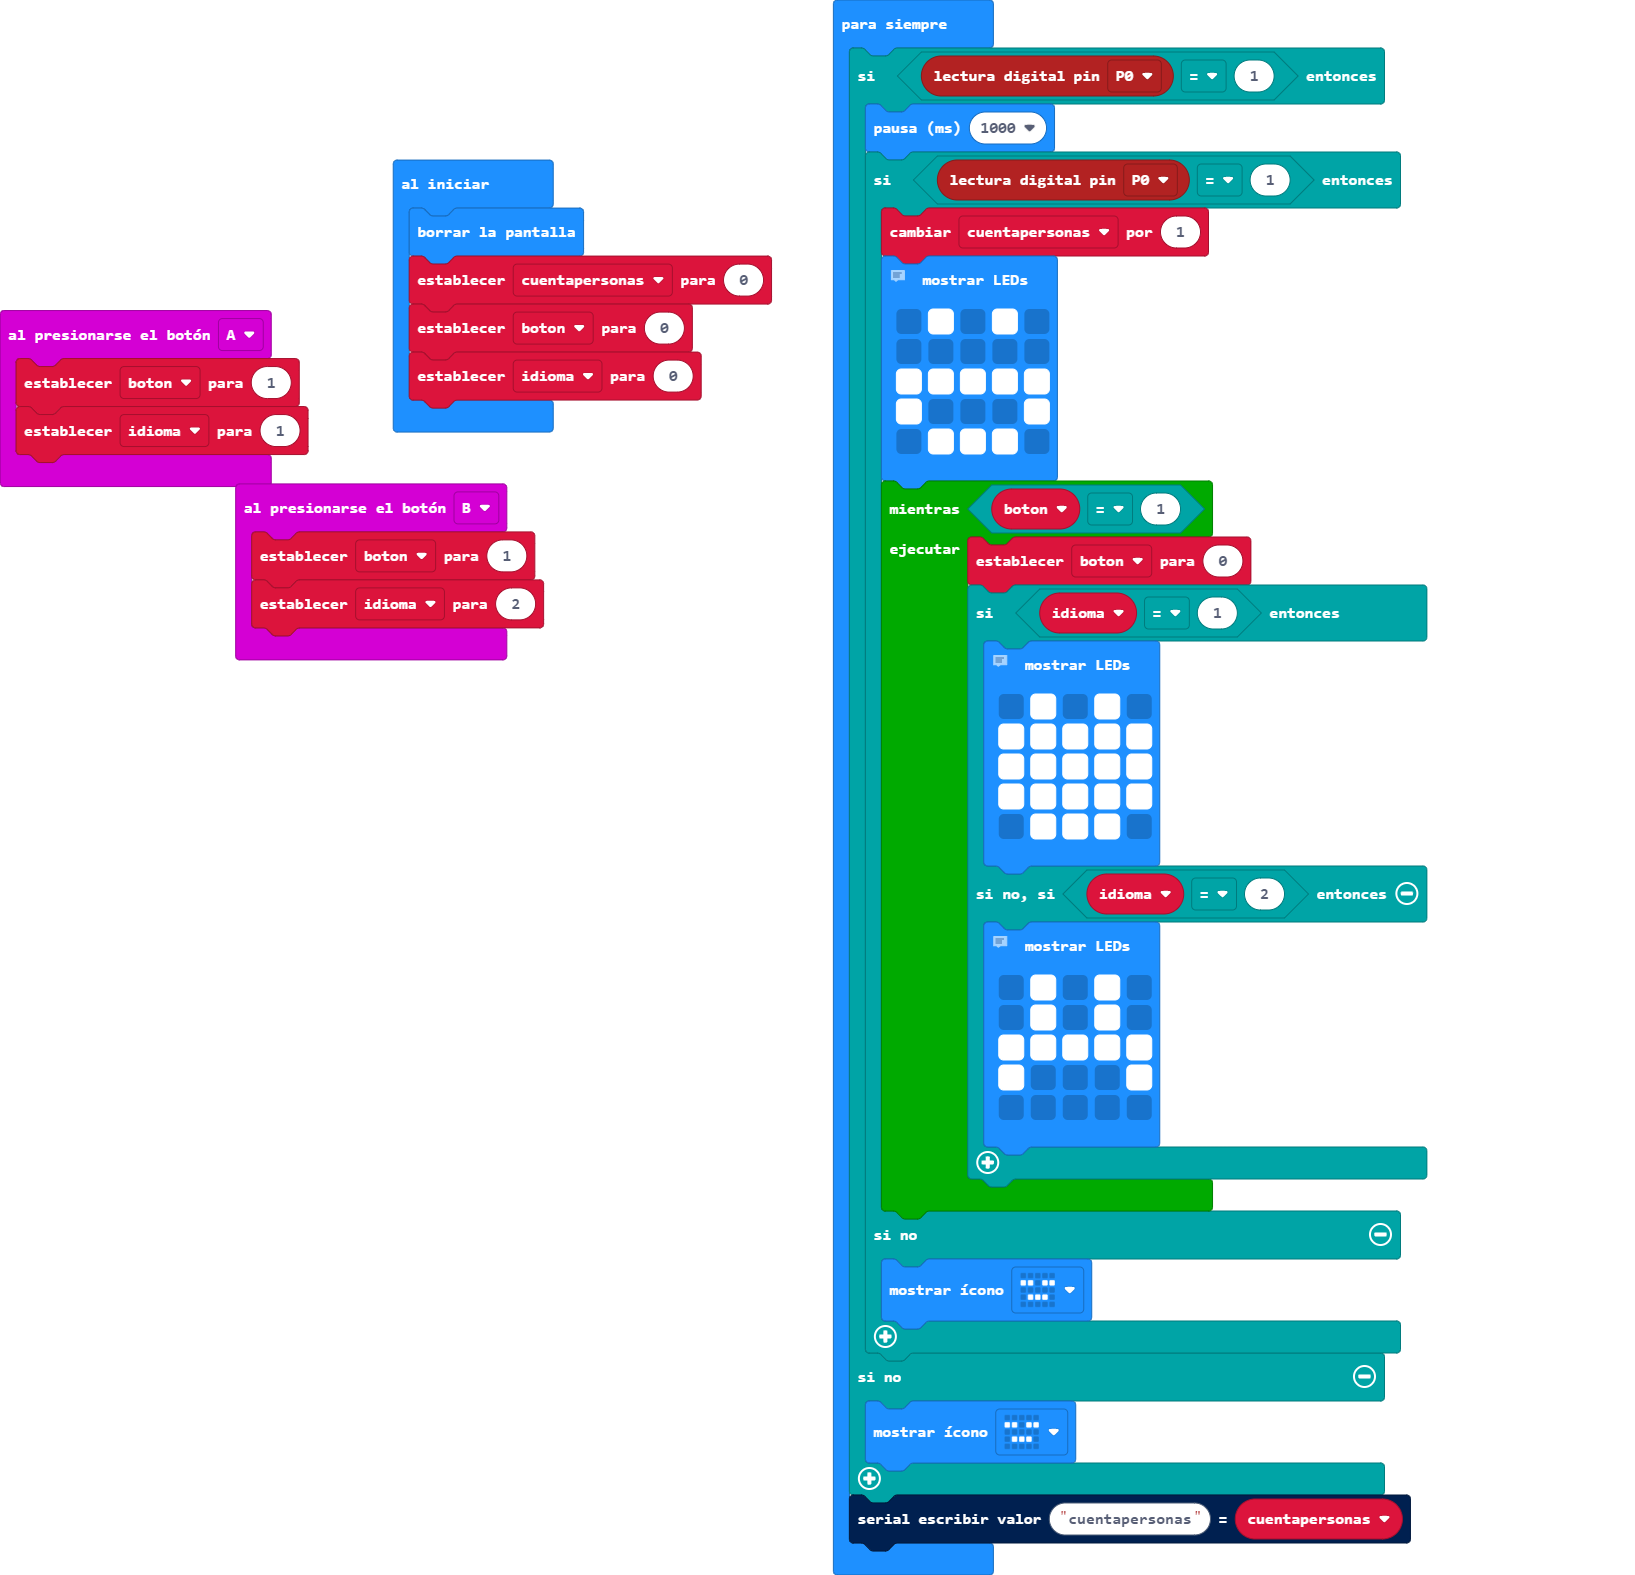
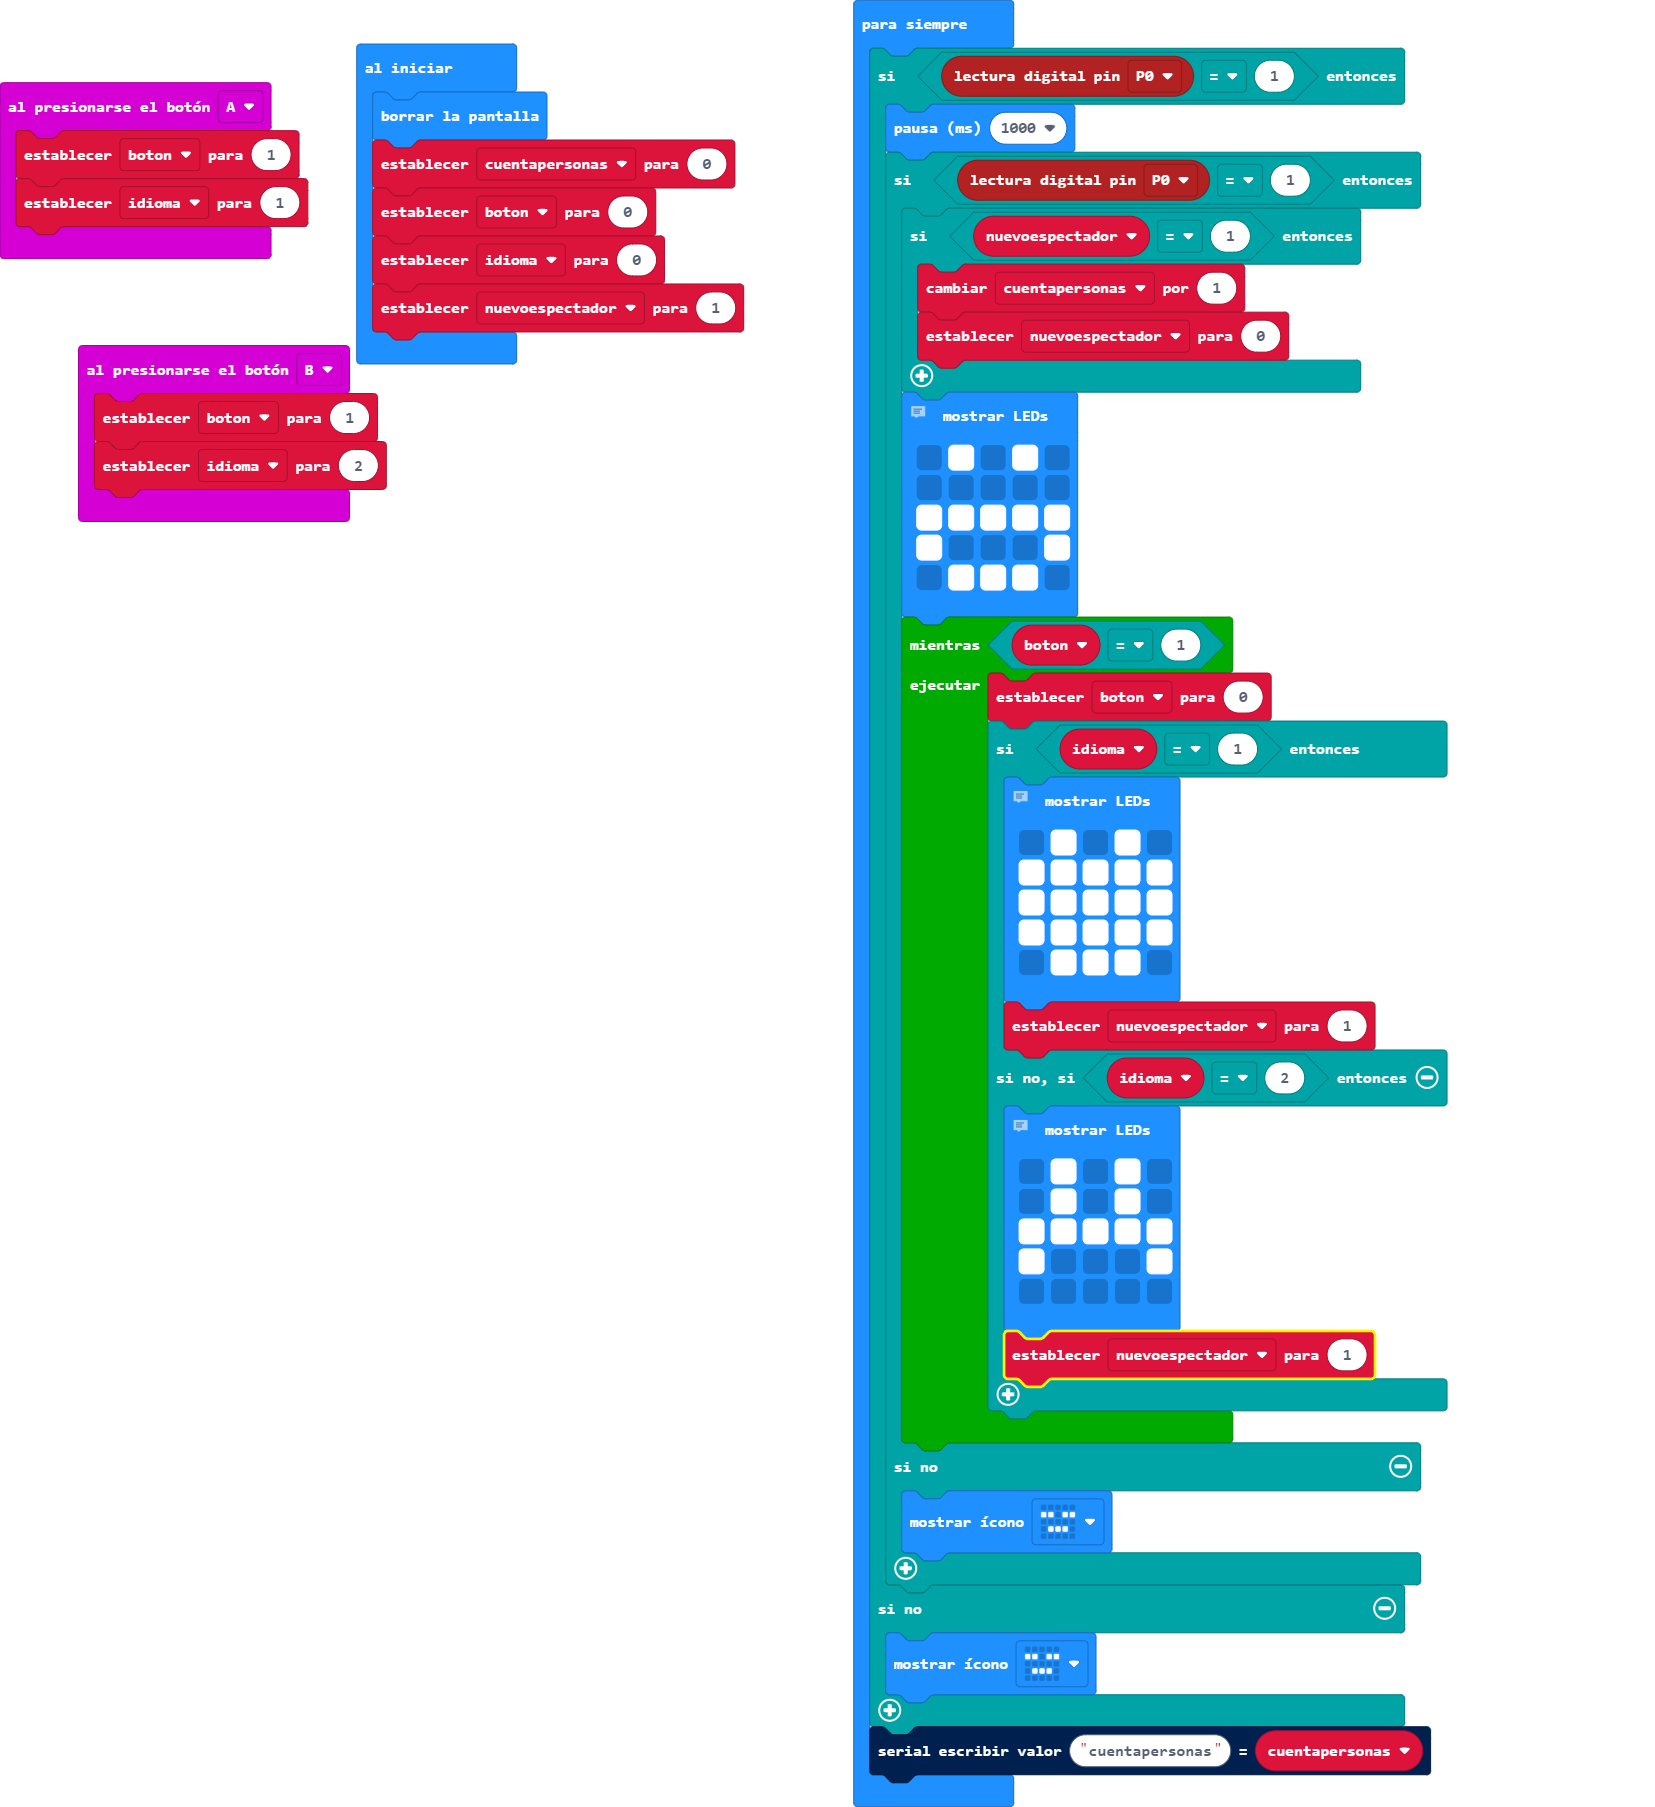
Actualizar main.blocks, main.ts

Changed region(s): [[0.0, 0.0, 0.8734, 1.0]]

diff --git a/main.ts b/main.ts
@@ -12,11 +12,15 @@ basic.clearScreen()
 let cuentapersonas = 0
 boton = 0
 idioma = 0
+let nuevoespectador = 1
 basic.forever(function () {
     if (pins.digitalReadPin(DigitalPin.P0) == 1) {
         basic.pause(1000)
         if (pins.digitalReadPin(DigitalPin.P0) == 1) {
-            cuentapersonas += 1
+            if (nuevoespectador == 1) {
+                cuentapersonas += 1
+                nuevoespectador = 0
+            }
             // Reproducir audio:
             // Bienvenido al teatro de
             // Alborán smart city.
@@ -46,6 +50,7 @@ basic.forever(function () {
                         # # # # #
                         . # # # .
                         `)
+                    nuevoespectador = 1
                 } else if (idioma == 2) {
                     // Reproducir audio:
                     // Bienvenido al teatro de
@@ -60,6 +65,7 @@ basic.forever(function () {
                         # . . . #
                         . . . . .
                         `)
+                    nuevoespectador = 1
                 }
             }
         } else {
